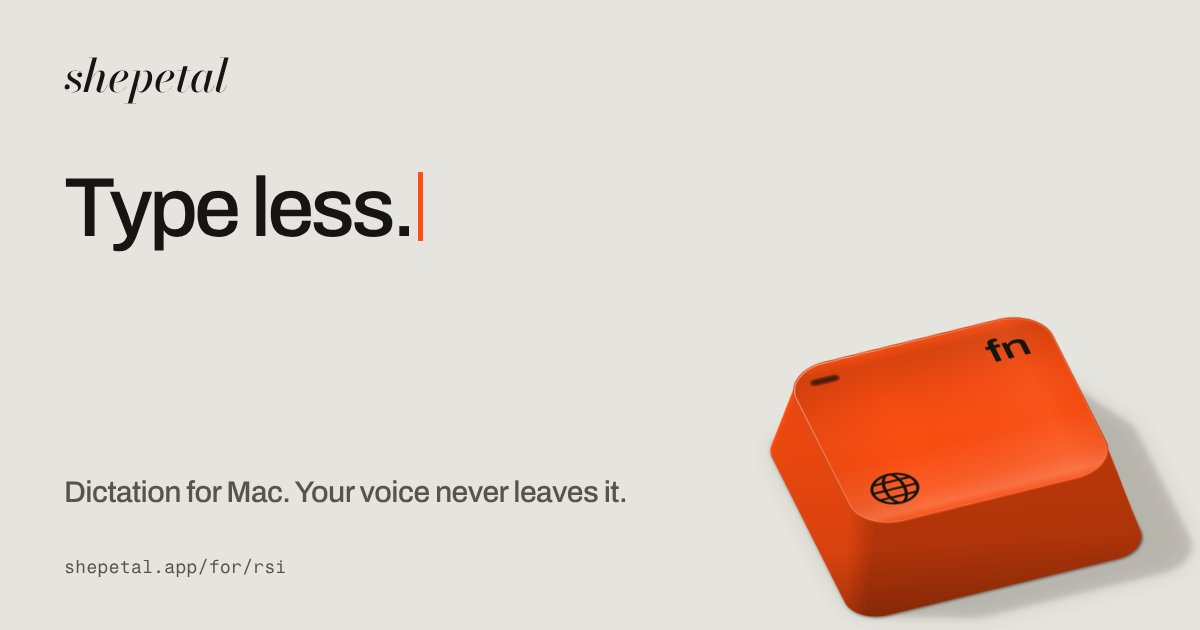
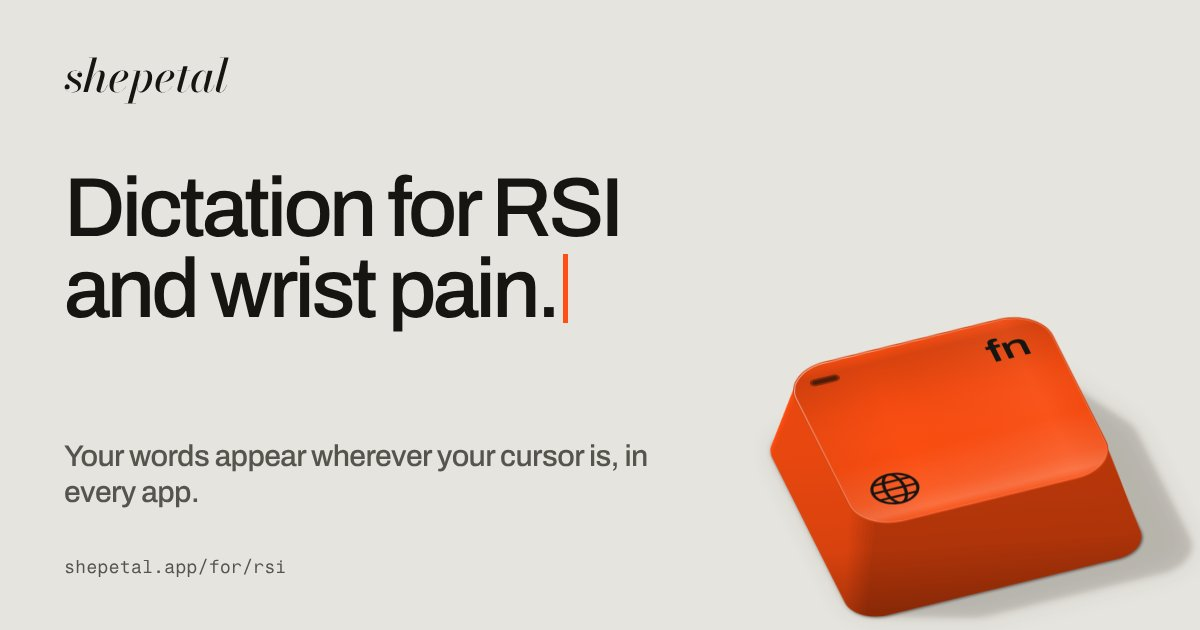
Use-case pages: copy in Pavel's voice
- Every lede opens with the reader's day in second person, then "We have built shepetal so ..."; h1s and
  scenario headings are plain words; scenario text says what you do and what happens, in one sentence with "and"
- Contrasts and negations said as what happens: "your voice never leaves your Mac" is "your voice stays on your
  Mac", "no bot joins the call" is "the people in the call stay the same", "sends no text" is "your words go to
  two places"; no paragraph closes on a short line
- Link previews: the page title and one plain line, re-rendered (public/og/for-<slug>.jpg)
- One link at the end, to the FAQ; the price heading loses its period
- Test: the pavel-voice checks (not a, rather than, instead of, never, without, no, ...), a short sentence closing
  a paragraph or two in a row, headings of one to three words, "you" in every lede

Changed region(s): [[0.0308, 0.2714, 0.5242, 0.5429], [0.0308, 0.6937, 0.555, 0.8143]]

diff --git a/web/src/lib/use-cases.ts b/web/src/lib/use-cases.ts
@@ -44,14 +44,14 @@ export const USE_CASES: UseCase[] = [
     slug: 'developers',
     label: 'Developers',
     title: 'Dictation for developers',
-    description: 'Speak commit messages, PR descriptions, review notes and chat on your Mac. Works in every app. Your voice never leaves your Mac.',
-    h1: 'Say the words that go with the code.',
-    lede: 'Commit messages, PR descriptions, review notes and chat, spoken. The key is fn, so your hands stay on the keyboard.',
+    description: 'Say your commit messages, PR descriptions and review notes on your Mac and your words appear in the terminal, the editor or the browser.',
+    h1: 'shepetal for developers',
+    lede: 'Until now you typed every commit message, PR description and review note by hand, and the writing came at the end of the day when you just wanted to be done. You don’t have to do that anymore. We have built shepetal so you can just say it and your words appear in the terminal, the editor or the browser, wherever your cursor is.',
     scenarios: [
-      { title: 'Commit messages', text: 'Say what changed while it is fresh. Your words appear in the terminal or in your editor’s commit box.' },
-      { title: 'PR descriptions', text: 'Explain the why in full sentences, right in the browser.' },
-      { title: 'Code review notes', text: 'Read the diff and say what you see. Your words appear in the review box.' },
-      { title: 'Chat with your team', text: 'Answer a question without leaving the keyboard. Chat is one more app, and shepetal works in all of them.' },
+      { title: 'Commits', text: 'You say what changed while it is still fresh in your head and the commit message appears in the terminal or in the commit box of your editor.' },
+      { title: 'Pull requests', text: 'You explain why you made the change in full sentences, right in the browser, and your reviewer gets the whole story in the description.' },
+      { title: 'Reviews', text: 'You read the diff and just say what you see, and your comment appears in the review box.' },
+      { title: 'Team chat', text: 'You answer a question from your team right in the chat app, the same way you write a commit message.' },
     ],
     facts: ['Works in every app.', 'Instant.', '4x faster than typing.', '100% private. Your data is yours.', 'Works offline.'],
     updated: '2026-10-23',
@@ -60,14 +60,14 @@ export const USE_CASES: UseCase[] = [
     slug: 'writers',
     label: 'Writers',
     title: 'Dictation for writers',
-    description: 'Speak the first draft on your Mac, in the app you write in. 25 European languages. Your voice never leaves your Mac.',
-    h1: 'Say the draft. Shape it after.',
-    lede: 'Get the first version down as fast as you can say it. Your words appear in the app you write in.',
+    description: 'Say your first draft on your Mac and your words appear in the app you write in, in 25 European languages, and your voice stays on your Mac.',
+    h1: 'shepetal for writers',
+    lede: 'Until now the first draft was the slow part, because your thoughts were always a few sentences ahead of your fingers. You don’t have to wait for your hands anymore. We have built shepetal so you can just say the draft and your words appear in the app you write in, as fast as you can say them.',
     scenarios: [
-      { title: 'The first draft', text: 'Talk the piece through in your editor. Then edit with the keyboard, as you always have.' },
-      { title: 'The idea that arrives mid-sentence', text: 'Say it into shepetal’s Notes and stay on the page you are writing.' },
-      { title: 'Long replies', text: 'Letters, emails and messages to editors, spoken in the app you send them from.' },
-      { title: 'In your language', text: '25 European languages, among them English, German, French, Spanish, Italian and Polish.' },
+      { title: 'First draft', text: 'You talk the piece through in your editor and then edit it with the keyboard, the same way you always have.' },
+      { title: 'Ideas', text: 'When an idea arrives in the middle of a sentence you just say it into shepetal’s Notes and carry on with the page you are writing.' },
+      { title: 'Replies', text: 'You just say your letters, emails and messages to your editor in the app you send them from, and read them over before they go out.' },
+      { title: 'Your language', text: 'shepetal works in 25 European languages, among them English, German, French, Spanish, Italian and Polish, so you can write in the one you think in.' },
     ],
     facts: ['Instant.', '4x faster than typing.', 'Works in every app.', '100% private. Your data is yours.', 'Works offline.'],
     updated: '2026-10-23',
@@ -76,31 +76,31 @@ export const USE_CASES: UseCase[] = [
     slug: 'rsi',
     label: 'RSI',
     title: 'Dictation for RSI and wrist pain',
-    description: 'Type less on your Mac: speak, and your words appear wherever your cursor is. One key, every app. Your voice never leaves your Mac.',
-    h1: 'Type less.',
-    lede: 'Speak instead of typing. Press one key, and your words appear wherever your cursor is.',
+    description: 'Type less on your Mac: you speak and your words appear wherever your cursor is, in every app, and your voice stays on your Mac.',
+    h1: 'shepetal for RSI',
+    lede: 'Until now every email, message and document went through your wrists, key by key, all day long. You don’t have to type all of it anymore. We have built shepetal so you can just speak and your words appear wherever your cursor is.',
     scenarios: [
-      { title: 'The long email', text: 'Say the long reply instead of typing it. Then fix a word or two by hand.' },
-      { title: 'A day of messages', text: 'Chat, notes and tickets, each one spoken.' },
-      { title: 'Documents', text: 'Speak a page in your editor, then read it over.' },
-      { title: 'One key', text: 'Dictation needs one key: fn.' },
+      { title: 'Long emails', text: 'You say the long reply out loud and then fix a word or two by hand before you send it.' },
+      { title: 'Messages', text: 'Chat, notes and tickets add up over a day, and you can speak each one of them in the app it belongs in.' },
+      { title: 'Documents', text: 'You speak a whole page in your editor and then just read it over and change what you want to change.' },
+      { title: 'One key', text: 'Dictation needs a single key, fn, and the rest of the work is done by your voice.' },
     ],
     facts: ['Works in every app.', 'Instant.', '4x faster than typing.', '100% private. Your data is yours.', 'Works offline.'],
-    note: 'shepetal is a dictation app, not a medical device. If typing hurts, talk to a doctor.',
+    note: 'shepetal is a dictation app, not a medical device. If typing hurts, please go and talk to a doctor.',
     updated: '2026-10-23',
   },
   {
     slug: 'adhd',
     label: 'ADHD',
     title: 'Dictation for ADHD',
-    description: 'Get thoughts down the moment you have them: one key on your Mac, and your words appear. Works in every app. Your voice never leaves your Mac.',
-    h1: 'Catch the thought before it goes.',
-    lede: 'Press one key. Your words appear wherever your cursor is.',
+    description: 'Get a thought down the moment you have it: you speak on your Mac and your words appear in every app, and your voice stays on your Mac.',
+    h1: 'shepetal for ADHD',
+    lede: 'Until now a good thought was often gone again by the time you had found the right app and started typing. You don’t have to lose it anymore. We have built shepetal so you can just say it and your words appear wherever your cursor is, right away.',
     scenarios: [
-      { title: 'The idea in the middle of something', text: 'Say it into shepetal’s Notes and carry on with what you were doing.' },
-      { title: 'The message you keep putting off', text: 'Say it the way you would say it to a friend. Then it is written, and you can send it.' },
-      { title: 'Everything on your mind', text: 'Say it all into one document. Sort it later.' },
-      { title: 'The list', text: 'Speak the tasks into your to-do app.' },
+      { title: 'Ideas', text: 'An idea shows up in the middle of something else, so you just say it into shepetal’s Notes and carry on with what you were doing.' },
+      { title: 'Messages', text: 'For the message you keep putting off, you say it the way you would say it to a friend, and then it is written and ready to send.' },
+      { title: 'Everything else', text: 'You say everything that is on your mind into one document and sort it out later, when you have the time.' },
+      { title: 'Lists', text: 'You speak your tasks straight into your to-do app, one after the other, wherever your cursor is.' },
     ],
     facts: ['Instant.', 'Works in every app.', '100% private. Your data is yours.', 'Works offline.'],
     note: 'shepetal is a dictation app, not a medical device.',
@@ -110,14 +110,14 @@ export const USE_CASES: UseCase[] = [
     slug: 'privacy',
     label: 'Private work',
     title: 'Private dictation for Mac',
-    description: 'Dictation that runs on your Mac: your voice never leaves it, and it works offline. 100% private. Your data is yours.',
-    h1: 'Your voice stays on your Mac.',
-    lede: 'Speech recognition runs on your Mac. Your voice never leaves it.',
+    description: 'Speech recognition runs on your Mac, so your voice stays on it and dictation works offline. 100% private. Your data is yours.',
+    h1: 'shepetal for private work',
+    lede: 'If you work with client names, figures and contracts, you think twice before your voice goes anywhere. We have built shepetal so speech recognition runs on your Mac and your voice stays there.',
     scenarios: [
-      { title: 'Work under NDA', text: 'Client names and figures are recognized on your Mac. shepetal itself sends no text and no analytics.' },
-      { title: 'Personal notes', text: 'Your recordings, notes and history stay on your Mac, in your user folder.' },
-      { title: 'No signal', text: 'Dictate on a plane, on a train, in a cabin with no signal.' },
-      { title: 'Your words go where you put them', text: 'Into the app you dictate into, and into the history on your Mac.' },
+      { title: 'Client work', text: 'Client names and figures are recognized on your Mac, so you can just dictate your notes on work under NDA like anything else.' },
+      { title: 'Personal notes', text: 'Your recordings, notes and history are saved in your user folder on your Mac, right next to the rest of your files.' },
+      { title: 'Offline', text: 'You can dictate on a plane or on a train with the wifi switched off and your words still appear wherever your cursor is.' },
+      { title: 'Your text', text: 'From shepetal your words go to two places: the app you are dictating into and the history on your Mac.' },
     ],
     facts: ['100% private. Your data is yours.', 'Works offline.', 'Works in every app.', 'Meetings, transcribed on your Mac.'],
     updated: '2026-10-23',
@@ -126,14 +126,14 @@ export const USE_CASES: UseCase[] = [
     slug: 'meetings',
     label: 'Meetings',
     title: 'Meeting transcription on your Mac',
-    description: 'Meetings, transcribed on your Mac. shepetal offers to record when a call starts. Your voice never leaves your Mac.',
+    description: 'Meetings, transcribed on your Mac. When a call starts, shepetal offers to record it and the call is transcribed on your Mac.',
     h1: 'Meetings, transcribed on your Mac.',
-    lede: 'When a call starts, shepetal offers to record it. Choose Record, and the call is transcribed on your Mac.',
+    lede: 'Until now you took notes during the call and listened with half an ear while you were writing. You don’t have to do that anymore. When a call starts shepetal offers to record it, you choose Record and the call is transcribed on your Mac.',
     scenarios: [
-      { title: 'The call you need notes from', text: 'Talk and listen. Read the transcript after.' },
-      { title: 'Calls with clients', text: 'The recording and the transcript stay on your Mac. No bot joins the call.' },
-      { title: 'Your side and theirs', text: 'Your microphone and the call’s sound are both recorded, on your Mac.' },
-      { title: 'The follow-up', text: 'Write the follow-up email with the transcript open beside it, by voice, in any app.' },
+      { title: 'Notes', text: 'You just talk and listen, and you read the transcript after the call.' },
+      { title: 'Client calls', text: 'shepetal records the call on your Mac, so the people in the call stay the same, and the recording and the transcript stay on your Mac.' },
+      { title: 'Both sides', text: 'Your microphone and the sound of the call are both recorded on your Mac, so the transcript has your side and theirs.' },
+      { title: 'Follow-up', text: 'You write the follow-up email by voice in any app, with the transcript open next to it.' },
     ],
     facts: ['Meetings, transcribed on your Mac.', '100% private. Your data is yours.', 'Works in every app.'],
     updated: '2026-10-23',

diff --git a/web/src/lib/use-cases.test.tsx b/web/src/lib/use-cases.test.tsx
@@ -130,6 +130,27 @@ describe('use-case pages', () => {
     expect(voice(text(renderToStaticMarkup(<SiteFooter />))), 'footer').toEqual([]);
   });
 
+  it('keep Pavel’s voice: plain headings, second person, no contrasts or tails, no short sentence closing a paragraph', () => {
+    // the pavel-voice checks: "not a", "rather than", "never" and the rest are said as what happens instead
+    const TELLS = /\bnot an?\b|rather than|instead of|does not|doesn['’]t|has no|\bnever\b|on purpose|intentional|for the record|\bwithout\b|at the time of writing|nothing else|\bno\b/i;
+    const sentences = (p: string) => p.split(/(?<=[.:?])\s+(?=[A-Za-z])/).filter(Boolean);
+    const short = (x: string) => x.split(/\s+/).length < 8;
+    for (const u of USE_CASES) {
+      expect(u.lede, u.slug).toMatch(/\byou(r)?\b/i);
+      for (const s of u.scenarios) expect(s.title.split(/\s+/).length, `${u.slug}: ${s.title}`).toBeLessThanOrEqual(3);
+      // the health pages' note is the one line that says what shepetal is not, and the test above pins it
+      const paragraphs = [u.lede, u.description, ...u.scenarios.map((s) => s.text), (u.note ?? '').replace(/^shepetal is a dictation app, not a medical device\.\s*/, '')].filter(Boolean);
+      for (const p of paragraphs) {
+        expect(p.match(TELLS)?.[0], `${u.slug}: ${p}`).toBeUndefined();
+        const ss = sentences(p.replace(/(100% private\. Your data is yours\.|Meetings, transcribed on your Mac\.)/g, ''));
+        if (ss.length > 1 || p === u.lede) expect(short(ss[ss.length - 1]), `${u.slug} ends short: ${p}`).toBe(false);
+        for (let i = 1; i < ss.length; i++) expect(short(ss[i - 1]) && short(ss[i]), `${u.slug} two short: ${p}`).toBe(false);
+      }
+    }
+    const page = text(renderToStaticMarkup(<UseCasePage slug="developers" />));
+    expect(page).not.toMatch(TELLS);
+  });
+
   it('keep the voice: no exclamation, no medical promise, no steps or requirements', () => {
     for (const slug of SLUGS) {
       const t = words(slug);

diff --git a/web/src/components/site/UseCase.tsx b/web/src/components/site/UseCase.tsx
@@ -43,7 +43,7 @@ export function UseCasePage({ slug }: { slug: string }) {
 
         <section className="s-for-try" aria-labelledby="s-for-try">
           <h2 id="s-for-try" className="s-h2">
-            30 days free.
+            30 days free
           </h2>
           <div className="s-plans">
             <div className="s-plan">
@@ -59,13 +59,9 @@ export function UseCasePage({ slug }: { slug: string }) {
             <TryButton slug={slug} />
           </div>
           <p className="s-small s-for-more">
-            How it works, and what it needs, in the{' '}
+            Everything on how it works and what it needs is in the{' '}
             <Link href="/faq" prefetch={false}>
               FAQ
-            </Link>{' '}
-            and the{' '}
-            <Link href="/privacy" prefetch={false}>
-              Privacy Policy
             </Link>
             .
           </p>
